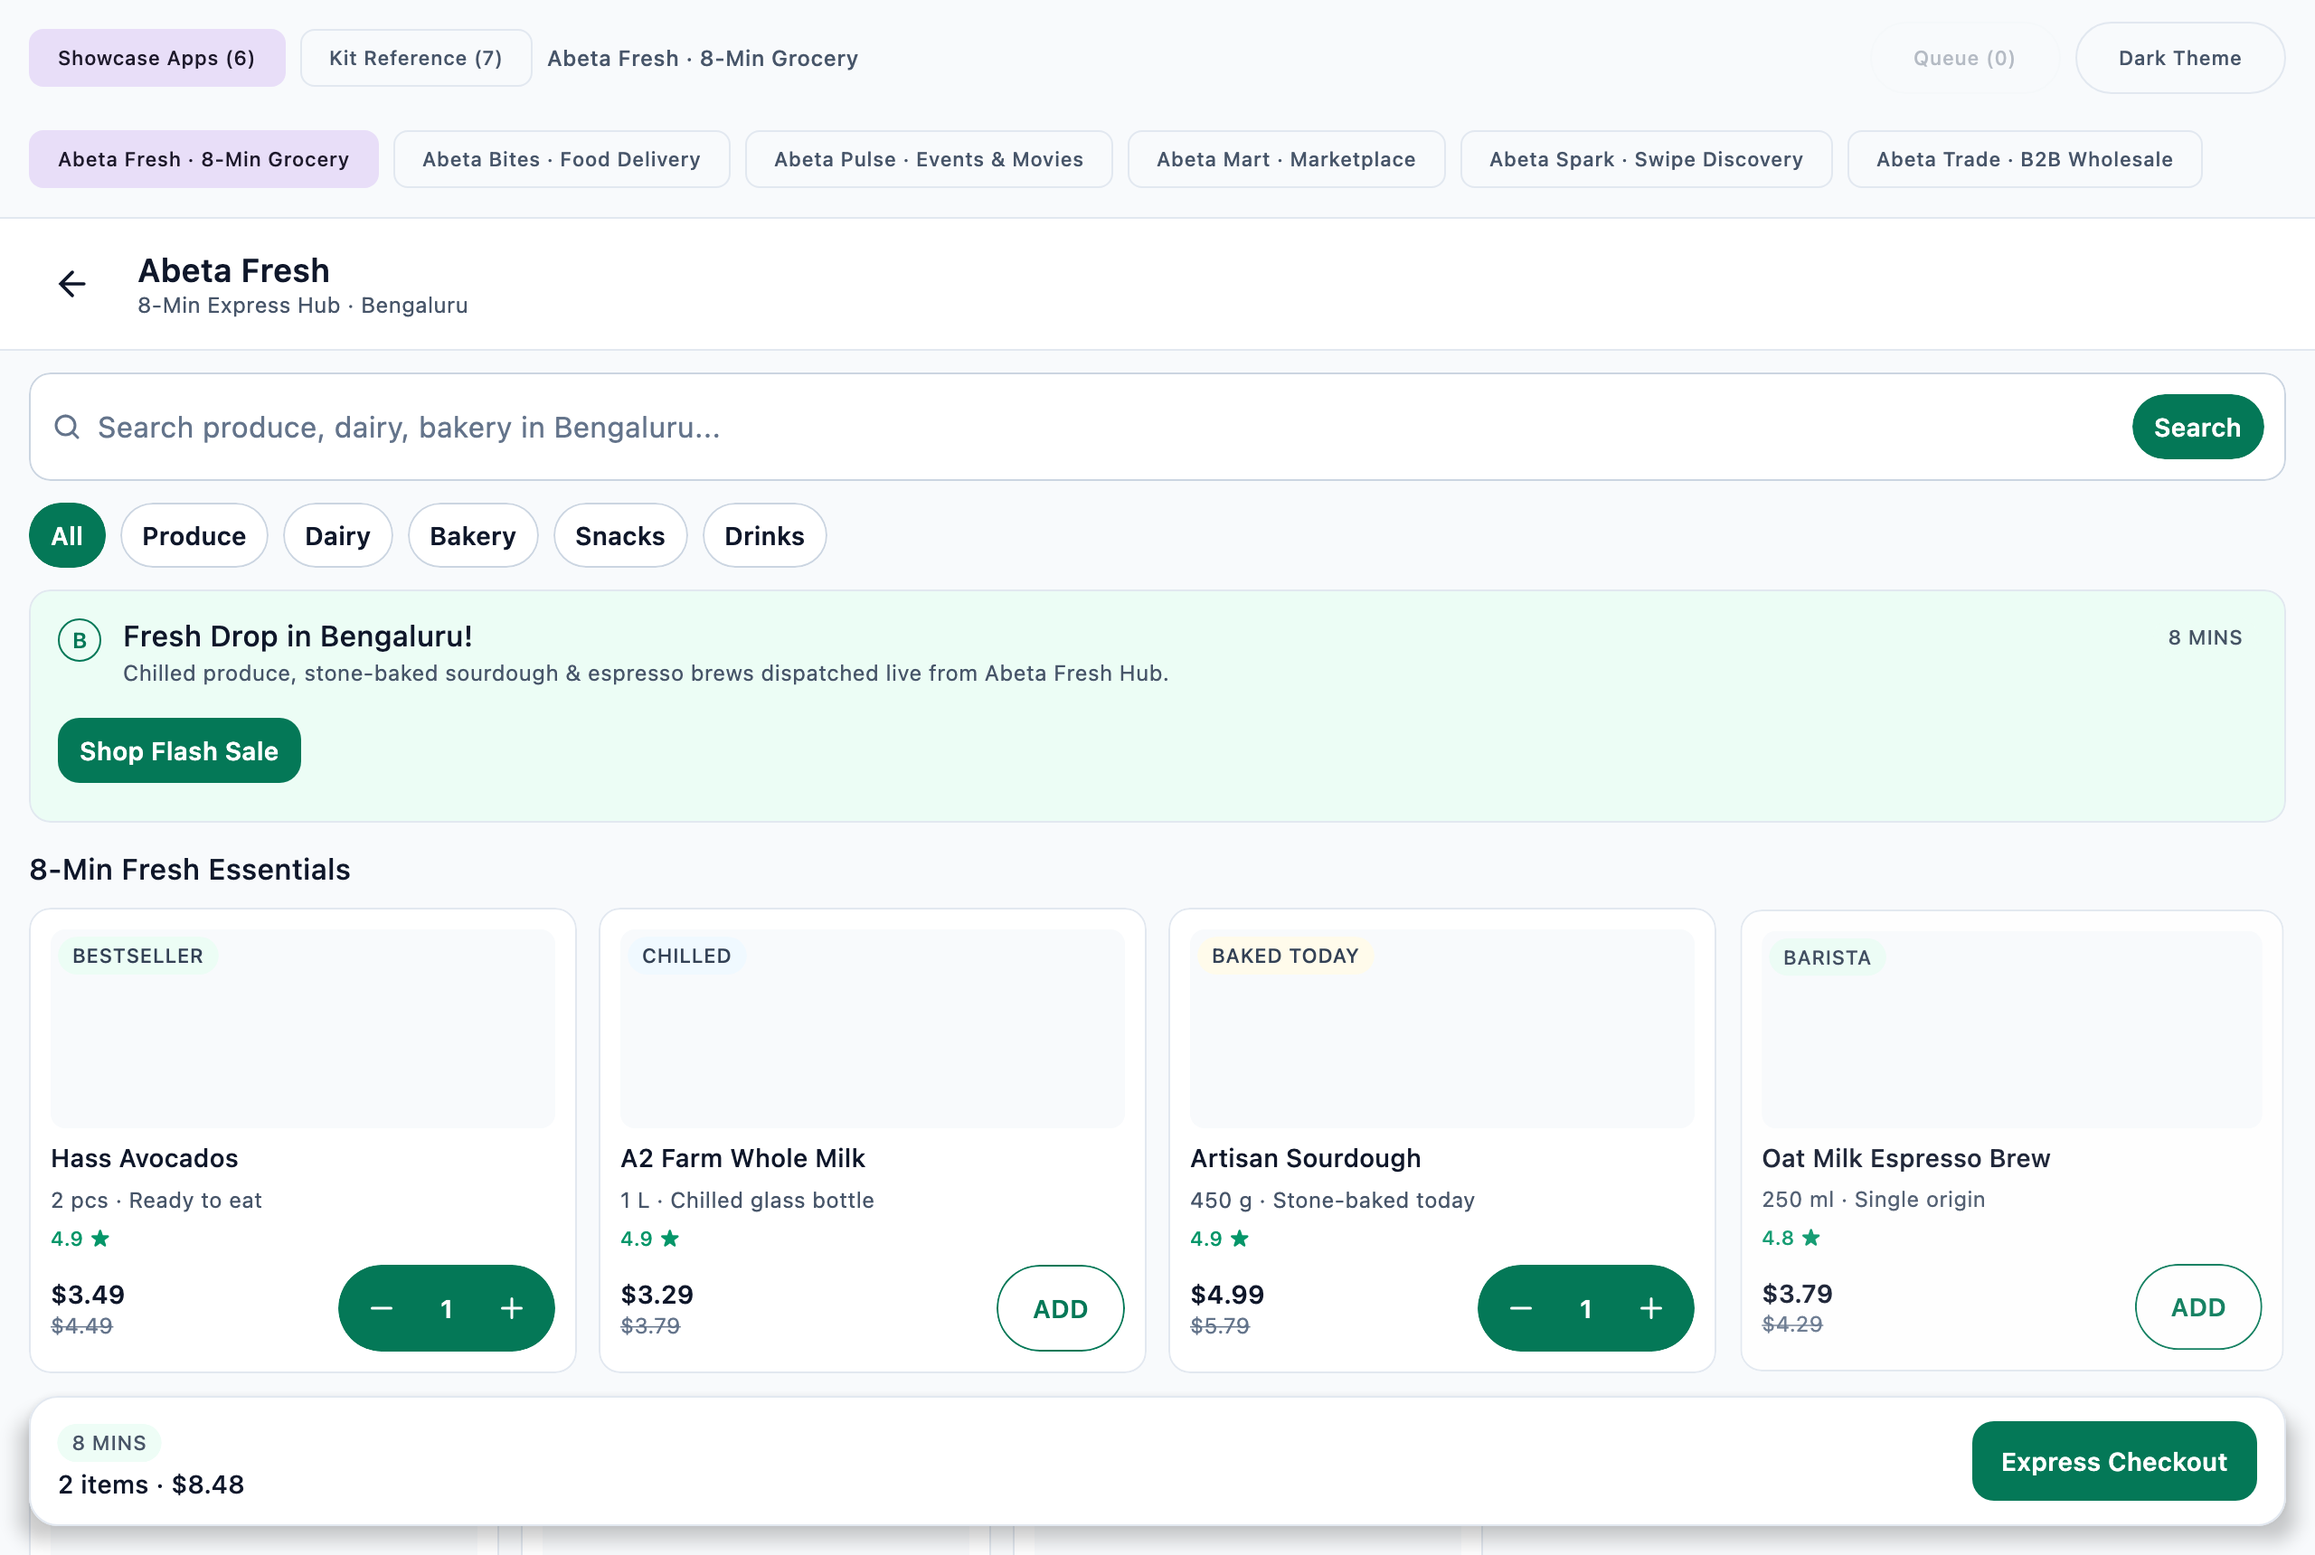
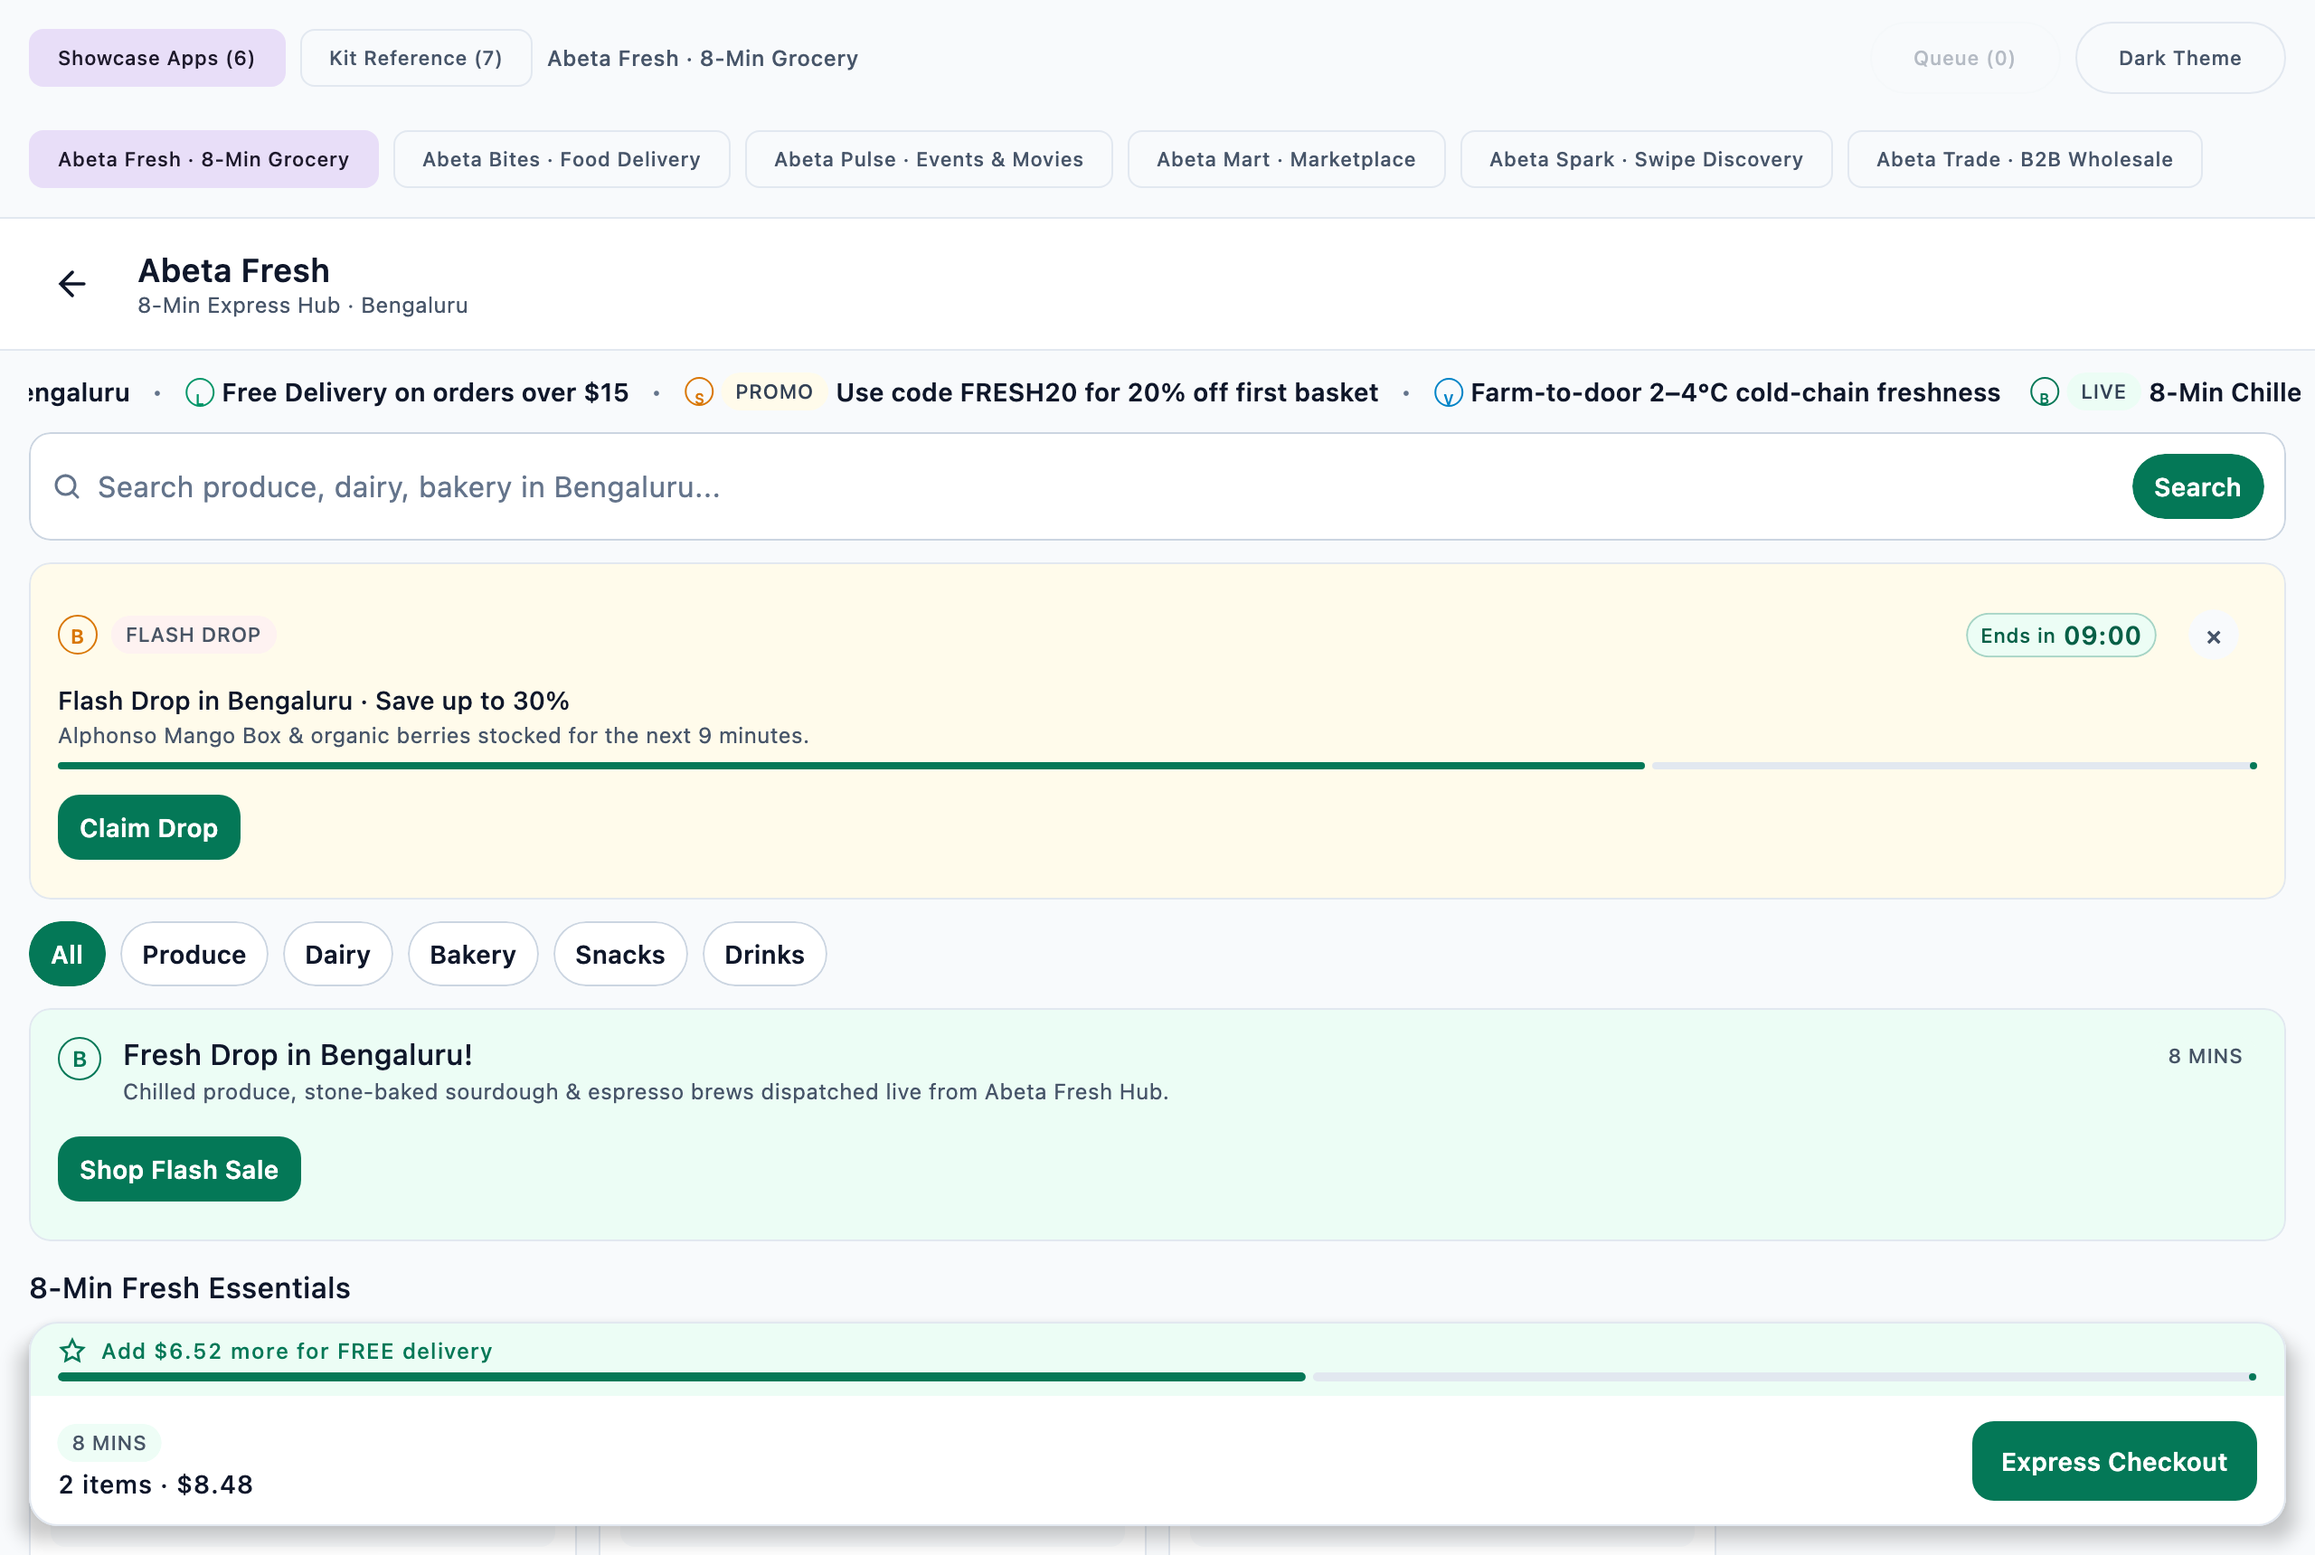
fix(sdui-layout): stack NudgeBar metadata row cleanly on compact phones + refresh Wave 6 screenshots

diff --git a/kmp/sdui-layout/src/commonMain/kotlin/dev/abeta/kmp/layout/snippet/NudgeAndMarqueeRenderers.kt b/kmp/sdui-layout/src/commonMain/kotlin/dev/abeta/kmp/layout/snippet/NudgeAndMarqueeRenderers.kt
@@ -200,40 +200,50 @@ internal class NudgeBarSnippetRenderer(
         onAction: (ActionRef) -> Unit,
     ) {
         val spacing = ThemeTokens.spacing
-        Row(
+        val hasMetaRow = model.badge != null || model.countdown != null || model.icon != null
+        Column(
             modifier = Modifier.fillMaxWidth(),
-            verticalAlignment = Alignment.CenterVertically,
-            horizontalArrangement = Arrangement.spacedBy(spacing.space8),
+            verticalArrangement = Arrangement.spacedBy(spacing.space4),
         ) {
-            model.icon?.let { icon ->
-                UiIcon(atom = icon, onAction = onAction)
-            }
-            Column(
-                modifier = Modifier.weight(1f),
-                verticalArrangement = Arrangement.spacedBy(spacing.space4),
-            ) {
+            if (hasMetaRow) {
                 Row(
+                    modifier = Modifier.fillMaxWidth(),
                     verticalAlignment = Alignment.CenterVertically,
                     horizontalArrangement = Arrangement.spacedBy(spacing.space8),
                 ) {
+                    model.icon?.let { icon ->
+                        UiIcon(atom = icon, onAction = onAction)
+                    }
                     model.badge?.let { badge ->
                         UiTag(atom = badge, onAction = onAction)
                     }
+                    Box(modifier = Modifier.weight(1f))
+                    model.countdown?.let { countdown ->
+                        UiCountdown(atom = countdown, onAction = onAction)
+                    }
+                    if (model.dismissible) {
+                        NudgeDismissButton(nudgeId = model.nudgeId, onDismiss = onDismiss)
+                    }
+                }
+                UiText(atom = model.title, onAction = onAction)
+            } else {
+                Row(
+                    modifier = Modifier.fillMaxWidth(),
+                    verticalAlignment = Alignment.CenterVertically,
+                    horizontalArrangement = Arrangement.spacedBy(spacing.space8),
+                ) {
                     UiText(
                         atom = model.title,
-                        modifier = Modifier.weight(1f, fill = false),
+                        modifier = Modifier.weight(1f),
                         onAction = onAction,
                     )
-                }
-                model.subtitle?.let { subtitle ->
-                    UiText(atom = subtitle, onAction = onAction)
+                    if (model.dismissible) {
+                        NudgeDismissButton(nudgeId = model.nudgeId, onDismiss = onDismiss)
+                    }
                 }
             }
-            model.countdown?.let { countdown ->
-                UiCountdown(atom = countdown, onAction = onAction)
-            }
-            if (model.dismissible) {
-                NudgeDismissButton(nudgeId = model.nudgeId, onDismiss = onDismiss)
+            model.subtitle?.let { subtitle ->
+                UiText(atom = subtitle, onAction = onAction)
             }
         }
     }
